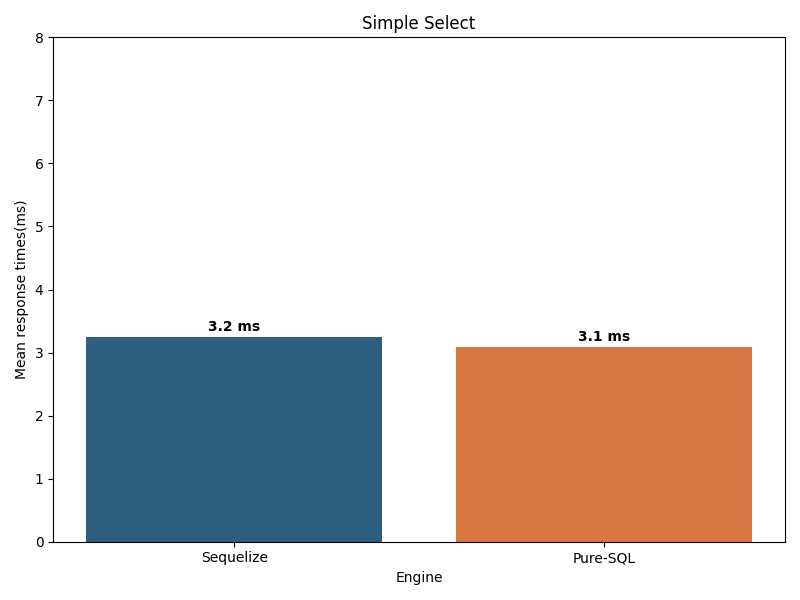
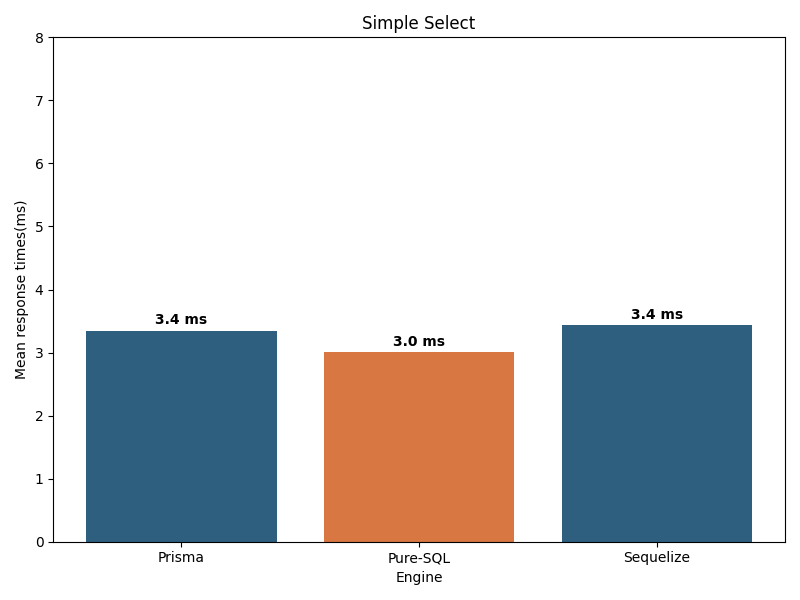
box-plot added for memory and speed

Changed region(s): [[0.0938, 0.51, 0.9375, 0.96], [0.1875, 0.9, 0.3125, 0.96]]

diff --git a/python-scripts/box-plot-memory-graph.py b/python-scripts/box-plot-memory-graph.py
@@ -1,0 +1,42 @@
+import json
+from statistics import mean
+
+import numpy as np
+import pandas as pd
+import matplotlib.pyplot as plt
+import scipy.stats as stats
+import statsmodels.stats.api as sm
+
+Title = "Simple Select"        # Decides the title
+
+def extract_newman_memory_use(filename):
+    with open(filename, 'r') as f:
+        data = json.load(f)
+
+    memory_use_list = [ex["memoryUse"] for ex in data]
+
+    return memory_use_list
+
+prisma_memory_use = extract_newman_memory_use("reports/Select/report-Prisma_SimpleSelect-100-16-19-20.json")
+sequelize_memory_use = extract_newman_memory_use("reports/Select/report-Sequelize_SimpleSelect-100-14-32-05.json")
+sql_memory_use = extract_newman_memory_use("reports/Select/report-SQL_SimpleSelect-100-14-30-11.json")
+
+engines = ['Prisma', 'Pure-SQL', 'Sequelize']
+all_memory = [prisma_memory_use, sql_memory_use, sequelize_memory_use]
+
+plt.figure(figsize=(8, 6))
+bp = plt.boxplot(all_memory, tick_labels=engines, patch_artist=True)
+
+colors = ['#2E5F7F', '#D87741', '#2E5F7F']
+
+for patch, color in zip(bp['boxes'], colors):
+    patch.set_facecolor(color)
+
+plt.ylim(bottom=30, top=32)
+
+plt.title(Title)
+plt.ylabel('Mean memory use (MB)')
+plt.xlabel('Engine')
+
+plt.tight_layout()
+plt.show()

diff --git a/python-scripts/memory-graph.py b/python-scripts/memory-graph.py
@@ -17,9 +17,9 @@ def extract_newman_memory_use(filename):
 
     return memory_use_list
 
-prisma_memory_use = extract_newman_memory_use("reports/Create/report-Prisma_SimpleCreate-100-16-59-36.json")
-sequelize_memory_use = extract_newman_memory_use("reports/Create/report-Sequelize_SimpleCreate-100-10-40-01.json")
-sql_memory_use = extract_newman_memory_use("reports/Create/report-SQL_SimpleCreate-100-11-45-53.json")
+prisma_memory_use = extract_newman_memory_use("reports/Select/report-Prisma_SimpleSelect-100-16-19-20.json")
+sequelize_memory_use = extract_newman_memory_use("reports/Select/report-Sequelize_SimpleSelect-100-14-32-05.json")
+sql_memory_use = extract_newman_memory_use("reports/Select/report-SQL_SimpleSelect-100-14-30-11.json")
 
 mean_prisma = mean(prisma_memory_use)
 mean_sequelize = mean(sequelize_memory_use)
@@ -38,8 +38,8 @@ print()
 print(f"SQL mean [{mean_sql:.3f}]")
 print(f"SQL 95% CI [{sql_interval[0]:.3f}, {sql_interval[1]:.3f}]")
 
-engines = ['Sequelize', 'Pure-SQL', 'Prisma']
-average = [mean_sequelize, mean_sql, mean_prisma]
+engines = ['Prisma', 'Pure-SQL', 'Sequelize']
+average = [mean_prisma, mean_sql, mean_Sequelize]
 
 plt.figure(figsize=(8, 6))
 plt.bar(engines, average, color=['#2E5F7F', '#D87741', '#2E5F7F'], alpha=1)

diff --git a/python-scripts/box-plot-speed-graph.py b/python-scripts/box-plot-speed-graph.py
@@ -1,0 +1,42 @@
+import json
+from statistics import mean
+
+import numpy as np
+import pandas as pd
+import matplotlib.pyplot as plt
+import scipy.stats as stats
+import statsmodels.stats.api as sm
+
+Title = "Simple Select"        # Decides the title
+
+def extract_newman_times(filename):
+    with open(filename, 'r') as f:
+        data = json.load(f)
+
+    times_list = [ex["responseTime"] for ex in data]
+
+    return times_list
+
+prisma_times = extract_newman_times("reports/Select/report-Prisma_SimpleSelect-100-16-19-20.json")
+sequelize_times = extract_newman_times("reports/Select/report-Sequelize_SimpleSelect-100-14-32-05.json")
+sql_times = extract_newman_times("reports/Select/report-SQL_SimpleSelect-100-14-30-11.json")
+
+engines = ['Prisma', 'Pure-SQL', 'Sequelize']
+all_time = [prisma_times, sql_times, sequelize_times]
+
+plt.figure(figsize=(8, 6))
+bp = plt.boxplot(all_time, tick_labels=engines, patch_artist=True)
+
+colors = ['#2E5F7F', '#D87741', '#2E5F7F']
+
+for patch, color in zip(bp['boxes'], colors):
+    patch.set_facecolor(color)
+
+plt.ylim(bottom=0, top=8)
+
+plt.title(Title)
+plt.ylabel('Mean response times(ms)')
+plt.xlabel('Engine')
+
+plt.tight_layout()
+plt.show()
